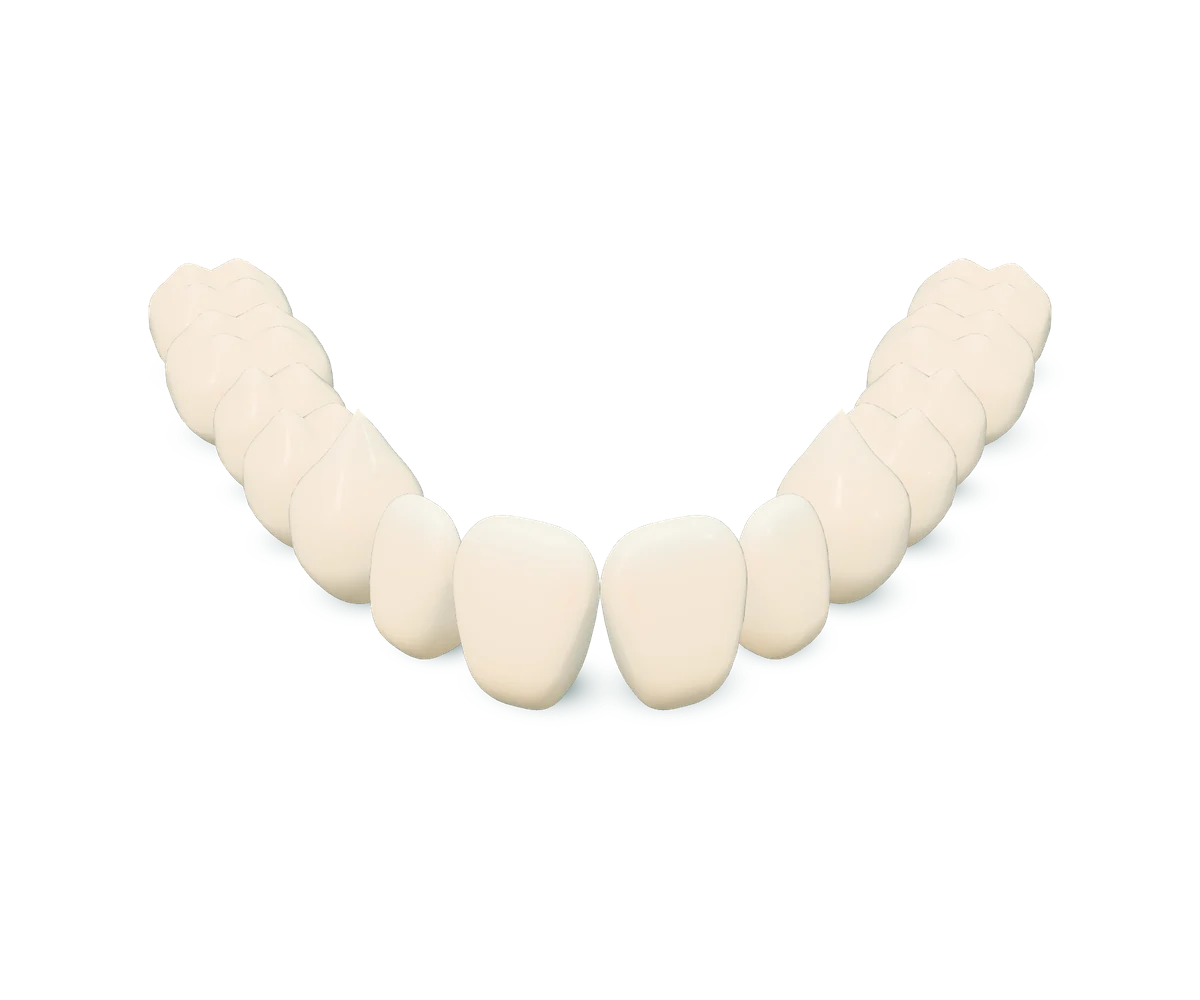
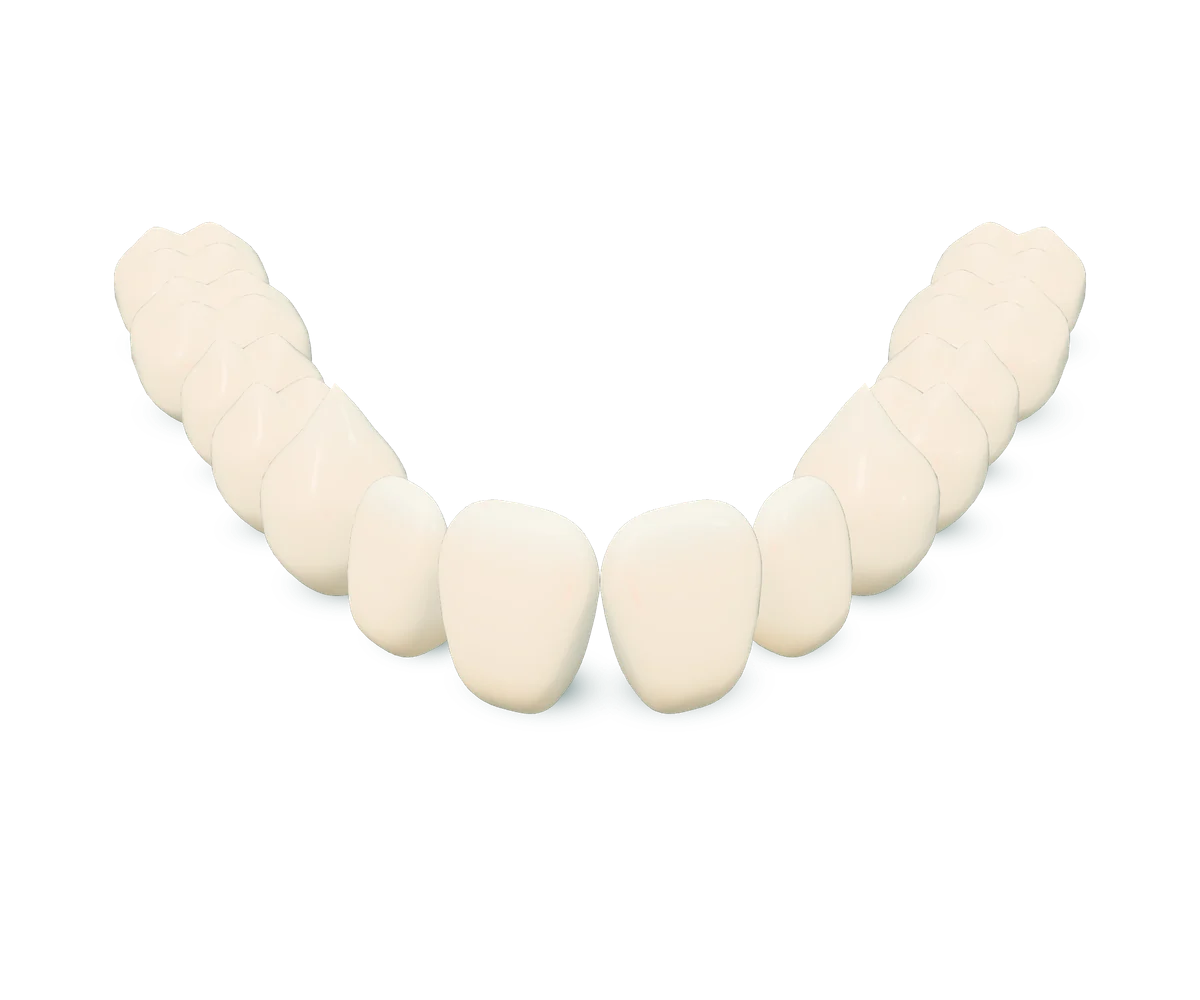
refine(odontologia): staggered alignment, dawn light, deferred scene
- The crooked arch holds through the first beat and aligns over the
  middle of the story, midline outward, with more visible premolar and
  molar corrections; the centrals close their contact when aligned.
- The aurora is a soft coral dawn rising from the panel edge (the
  logo's tones bridged through warm white) plus a gentle warm key, not
  a flat disc; enamel stays ivory.
- Tighter fit and a slight upward framing on tall canvases, steeper
  camera on portrait hosts, glossier enamel.
- The scene mounts after the headline reveal (or on first scroll), the
  host is a pending scene host from the start, static-vs-live is decided
  at once, and the static fallback is re-captured from the final scene.
- Display type capped at 6rem; static beats no longer keep the rail
  indent.

diff --git a/src/components/demos/odontologia/scene.ts b/src/components/demos/odontologia/scene.ts
@@ -73,16 +73,16 @@ const CROOKED: Record<string, number[]> = {
   '-1:1': [-0.04, -0.36, -0.04, -26, 5, -4],
   '-1:2': [-0.12, 0.42, 0.15, 12, -10, 7],
   '-1:3': [0.02, -0.08, 0, 34, 0, 0],
-  '-1:4': [0.06, 0.06, -0.02, -16, 7, 0],
-  '-1:5': [0, 0, 0, 7, 10, 0],
-  '-1:6': [0.05, 0, 0, -6, 4, 0],
+  '-1:4': [0.06, 0.14, -0.02, -24, 7, 0],
+  '-1:5': [0.04, -0.08, 0, 15, 11, 0],
+  '-1:6': [0.1, 0.06, 0, -12, 6, 0],
   '1:0': [0.14, 0.08, 0.02, -5, -8, 7],
   '1:1': [-0.02, 0.24, 0, 22, 3, 5],
   '1:2': [0.06, 0.12, 0, -16, 6, 0],
   '1:3': [0.02, 0.16, 0, -28, 0, 3],
-  '1:4': [0.02, -0.2, -0.04, 13, 0, 0],
-  '1:5': [0, 0, 0, -9, -4, 6],
-  '1:6': [0.04, 0, 0, 6, -6, 0],
+  '1:4': [0.02, -0.2, -0.04, 20, 0, 0],
+  '1:5': [0.03, 0.1, 0, -15, -6, 6],
+  '1:6': [0.08, -0.06, 0, 11, -6, 0],
 };
 
 const ARCH_C = 0.56; // z = -C·x²
@@ -292,7 +292,7 @@ export function create(canvas: HTMLCanvasElement, ctx: SceneContext): SceneInsta
   const room = studio();
   const envTarget = pmrem.fromScene(room, 0.035);
   scene.environment = envTarget.texture;
-  scene.environmentIntensity = 0.95;
+  scene.environmentIntensity = 1.05;
   room.traverse((o) => {
     const mesh = o as Mesh;
     if (mesh.isMesh) {
@@ -327,7 +327,7 @@ export function create(canvas: HTMLCanvasElement, ctx: SceneContext): SceneInsta
   const enamel = new MeshPhysicalMaterial({
     color: 0xffffff,
     vertexColors: true,
-    roughness: 0.4,
+    roughness: 0.33,
     metalness: 0,
     clearcoat: 0.65,
     clearcoatRoughness: 0.2,
@@ -423,12 +423,13 @@ export function create(canvas: HTMLCanvasElement, ctx: SceneContext): SceneInsta
   const deg = Math.PI / 180;
 
   function layout() {
-    const align = clamp01((progress - 0.04) / 0.76);
+    // the crooked arch holds while the first beat reads, then aligns over the middle of the story
+    const align = clamp01((progress - 0.12) / 0.72);
     const warm = smooth(0.68, 0.98, progress);
     for (let i = 0; i < teeth.length; i++) {
       const tooth = teeth[i];
-      const delay = tooth.rank * 0.065 + (tooth.side > 0 ? 0.025 : 0);
-      const local = easeInOut(clamp01((align - delay) / 0.58));
+      const delay = tooth.rank * 0.075 + (tooth.side > 0 ? 0.03 : 0);
+      const local = easeInOut(clamp01((align - delay) / 0.52));
       const left = 1 - local; // how crooked it still is
       const [dt, dn, dy, yaw, tip, tilt] = tooth.crooked;
       // the intro sets each tooth down, from the midline outward
@@ -473,7 +474,7 @@ export function create(canvas: HTMLCanvasElement, ctx: SceneContext): SceneInsta
   const probe: Vector3[] = [];
   for (const tooth of teeth) {
     for (const k of [-1, 1]) {
-      const reach = tooth.b + 0.42;
+      const reach = tooth.b + Math.abs(tooth.crooked[1]) + 0.1; // room for its own crooked offset
       probe.push(tooth.base.clone().addScaledVector(tooth.normal, k * reach).setY(0));
       probe.push(tooth.base.clone().addScaledVector(tooth.normal, k * reach).setY(tooth.h + 0.18));
     }
@@ -487,6 +488,8 @@ export function create(canvas: HTMLCanvasElement, ctx: SceneContext): SceneInsta
     const elevation = mix(ELEVATION.tall, ELEVATION.wide, smooth(0.75, 1.2, camera.aspect));
     const dir = new Vector3(0, Math.sin(elevation), Math.cos(elevation));
     const fill = width < 560 ? 0.92 : 0.86;
+    // sit a little above centre, so the dawn glow has room to rise beneath the arch (more on tall canvases)
+    const lift = mix(0.16, 0.05, smooth(0.75, 1.2, camera.aspect));
     const measure = (distance: number) => {
       camera.position.copy(target).addScaledVector(dir, distance);
       camera.lookAt(target);
@@ -504,11 +507,11 @@ export function create(canvas: HTMLCanvasElement, ctx: SceneContext): SceneInsta
     for (let i = 0; i < 28; i++) {
       const mid = (lo + hi) / 2;
       const b = measure(mid);
-      if ((b.x1 - b.x0) / 2 <= fill && (b.y1 - b.y0) / 2 <= fill) hi = mid;
+      if ((b.x1 - b.x0) / 2 <= fill && (b.y1 - b.y0) / 2 <= fill - lift) hi = mid;
       else lo = mid;
     }
     const b = measure(hi);
-    fitShift = { x: (b.x0 + b.x1) / 2, y: (b.y0 + b.y1) / 2 };
+    fitShift = { x: (b.x0 + b.x1) / 2, y: (b.y0 + b.y1) / 2 - lift };
     applyShift();
   }
   function applyShift() {
